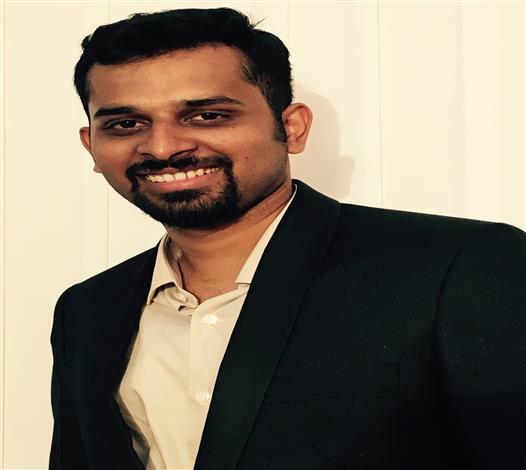
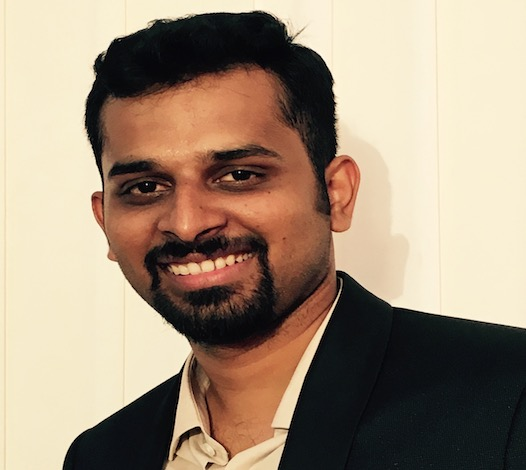
Updated date and profile pic of speakers
Updated date and profile pic of speakers

diff --git a/index.html b/index.html
@@ -10,7 +10,7 @@
 	<!-- Favicon -->
 	<link rel="shortcut icon" type="image/icon" href="assets/images/favicon.ico" />
 	<!-- Font Awesome -->
-	<link href="https://maxcdn.bootstrapcdn.com/font-awesome/4.6.3/css/font-awesome.min.css" rel="stylesheet">
+	<link href="assets/css/font-awesome.min.css" rel="stylesheet">
 	<!-- Bootstrap -->
 	<link href="assets/css/bootstrap.min.css" rel="stylesheet">
 	<!-- Slick slider -->
@@ -70,7 +70,7 @@
 						<li><a href="#mu-speakers">Speakers</a></li>
 						<li><a href="#mu-venue">Venue</a></li>
 						<li><a href="#mu-register">Register</a></li>
-						<li><a href="#mu-sponsors">Sponsors</a></li>
+						<!-- <li><a href="#mu-sponsors">Sponsors</a></li> -->
 						<!-- <li><a href="#mu-contact">Contact</a></li> -->
 					</ul>
 				</div>
@@ -99,14 +99,11 @@
 
 							<h1>WELCOME TO .NET Conf Local - Bengaluru</h1>
 							<h2>Learn. Imagine. Build.</h2>
-							<p class="mu-event-date-line">28 October, 2017. Bengaluru, India</p>
-
+							<p class="mu-event-date-line">18 November, 2017. Bengaluru, India</p>
 							<div class="mu-event-counter-area">
 								<div id="mu-event-counter">
-
 								</div>
 							</div>
-
 						</div>
 					</div>
 					<!-- End hero featured area -->
@@ -137,11 +134,9 @@
 										and greatest of Microsoft Technologies directly from Microsoft folks, Microsoft MVPs, Industry experts and Community
 										rockstars.
 									</p>
-
 								</div>
 							</div>
 							<!-- End Feature Content -->
-
 						</div>
 					</div>
 				</div>
@@ -163,7 +158,7 @@
 							<div class="mu-schedule-content-area">
 								<!-- Nav tabs -->
 								<ul class="nav nav-tabs mu-schedule-menu" role="tablist">
-									<li role="presentation" class="active"><a href="#first-day" aria-controls="first-day" role="tab" data-toggle="tab">28 Oct</a></li>
+									<li role="presentation" class="active"><a href="#first-day" aria-controls="first-day" role="tab" data-toggle="tab">18 Nov</a></li>
 									<!-- <li role="presentation"><a href="#second-day" aria-controls="second-day" role="tab" data-toggle="tab">2 Day / 20 Feb</a></li>
 								    <li role="presentation"><a href="#third-day" aria-controls="third-day" role="tab" data-toggle="tab">3 Day / 21 Feb</a></li> -->
 
@@ -189,7 +184,7 @@
 											</li>
 											<li>
 												<div class="mu-single-event">
-													<img src="assets/images/swami.jpg" alt="event speaker">
+													<img src="assets/images/Swami.jpg" alt="event speaker">
 													<p class="mu-event-time">10.30 AM</p>
 													<h3>.Net Standard 2.0</h3>
 													<span>By Swaminathan Vetri</span>
@@ -220,7 +215,7 @@
 											</li>
 											<li>
 												<div class="mu-single-event">
-													<img src="assets/images/speaker-3.jpg" alt="event speaker">
+													<img src="assets/images/anand-gothe.jpg" alt="event speaker">
 													<p class="mu-event-time">01.30 PM</p>
 													<h3>Go Serverless with Azure Functions and C#</h3>
 													<span>By Anand Gothe</span>
@@ -228,7 +223,7 @@
 											</li>
 											<li>
 												<div class="mu-single-event">
-													<img src="assets/images/speaker-3.jpg" alt="event speaker">
+													<img src="assets/images/vic-parmar-profile.jpg" alt="event speaker">
 													<p class="mu-event-time">02.30 PM</p>
 													<h3>What's New in ASP.NET Core 2.0</h3>
 													<span>By Vic Parmar</span>
@@ -289,25 +284,25 @@
 										<img src="assets/images/NishAnil.jpeg" alt="speaker img">
 										<div class="mu-single-speakers-info">
 											<h3>Nish Anil</h3>
-											<p>Sr. Program Manager, Xamarin - Microsoft</p>
+											<p>Sr. Program Manager, Microsoft</p>
 											<ul class="mu-single-speakers-social">
-												<li><a href="#"><i class="fa fa-facebook"></i></a></li>
-												<li><a href="#"><i class="fa fa-twitter"></i></a></li>
-												<li><a href="#"><i class="fa fa-linkedin"></i></a></li>
+												<!-- <li><a href="#"><i class="fa fa-facebook"></i></a></li> -->
+												<li><a href="https://twitter.com/nishanil" target="_blank"><i class="fa fa-twitter"></i></a></li>
+												<li><a href="https://www.linkedin.com/in/nanil/ " target="_blank"><i class="fa fa-linkedin"></i></a></li>
 											</ul>
 										</div>
 									</div>
 									<!-- End single speaker -->
 									<!-- Start single speaker -->
 									<div class="mu-single-speakers">
-										<img src="assets/images/swami.jpg" alt="speaker img">
+										<img src="assets/images/Swami.jpg" alt="speaker img">
 										<div class="mu-single-speakers-info">
 											<h3>Swaminathan Vetri</h3>
 											<p>Microsoft MVP</p>
 											<ul class="mu-single-speakers-social">
-												<li><a href="#"><i class="fa fa-facebook"></i></a></li>
-												<li><a href="#"><i class="fa fa-twitter"></i></a></li>
-												<li><a href="#"><i class="fa fa-linkedin"></i></a></li>
+												<!-- <li><a href="#"><i class="fa fa-facebook"></i></a></li> -->
+												<li><a href="https://twitter.com/svswaminathan" target="_blank"><i class="fa fa-twitter"></i></a></li>
+												<li><a href="https://www.linkedin.com/in/swaminathanvetri/" target="_blank"><i class="fa fa-linkedin"></i></a></li>
 											</ul>
 										</div>
 									</div>
@@ -315,14 +310,14 @@
 
 									<!-- Start single speaker -->
 									<div class="mu-single-speakers">
-										<img src="assets/images/speaker-3.jpg" alt="speaker img">
+										<img src="assets/images/vic-parmar-profile.jpg" alt="speaker img">
 										<div class="mu-single-speakers-info">
 											<h3>Vic Parmar</h3>
 											<p>Director IT, AaNeel Technologies</p>
 											<ul class="mu-single-speakers-social">
-												<li><a href="#"><i class="fa fa-facebook"></i></a></li>
-												<li><a href="#"><i class="fa fa-twitter"></i></a></li>
-												<li><a href="#"><i class="fa fa-linkedin"></i></a></li>
+												<!-- <li><a href="#"><i class="fa fa-facebook"></i></a></li> -->
+												<li><a href="https://twitter.com/vicparmar" target="_blank"><i class="fa fa-twitter"></i></a></li>
+												<li><a href="https://www.linkedin.com/in/vicparmar/" target="_blank"><i class="fa fa-linkedin"></i></a></li>
 											</ul>
 										</div>
 									</div>
@@ -330,21 +325,21 @@
 
 									<!-- Start single speaker -->
 									<div class="mu-single-speakers">
-										<img src="assets/images/speaker-4.jpg" alt="speaker img">
+										<img src="assets/images/anand-gothe.jpg" alt="speaker img">
 										<div class="mu-single-speakers-info">
 											<h3>Anand Gothe</h3>
 											<p>Software Architect, Prowareness</p>
 											<ul class="mu-single-speakers-social">
-												<li><a href="#"><i class="fa fa-facebook"></i></a></li>
-												<li><a href="#"><i class="fa fa-twitter"></i></a></li>
-												<li><a href="#"><i class="fa fa-linkedin"></i></a></li>
+												<!-- <li><a href="#"><i class="fa fa-facebook"></i></a></li> -->
+												<li><a href="https://twitter.com/anandgothe" target="_blank"><i class="fa fa-twitter"></i></a></li>
+												<li><a href="https://www.linkedin.com/in/anandgothe/" target="_blank"><i class="fa fa-linkedin"></i></a></li>
 											</ul>
 										</div>
 									</div>
 									<!-- End single speaker -->
 
 									<!-- Start single speaker -->
-									<div class="mu-single-speakers">
+									<!-- <div class="mu-single-speakers">
 										<img src="assets/images/speaker-1.jpg" alt="speaker img">
 										<div class="mu-single-speakers-info">
 											<h3>Awesome Speaker</h3>
@@ -355,11 +350,11 @@
 												<li><a href="#"><i class="fa fa-linkedin"></i></a></li>
 											</ul>
 										</div>
-									</div>
+									</div> -->
 									<!-- End single speaker -->
 
 									<!-- Start single speaker -->
-									<div class="mu-single-speakers">
+									<!-- <div class="mu-single-speakers">
 										<img src="assets/images/speaker-1.jpg" alt="speaker img">
 										<div class="mu-single-speakers-info">
 											<h3>Awesome Speaker</h3>
@@ -370,7 +365,7 @@
 												<li><a href="#"><i class="fa fa-linkedin"></i></a></li>
 											</ul>
 										</div>
-									</div>
+									</div> -->
 									<!-- End single speaker -->
 								</div>
 							</div>
@@ -390,7 +385,7 @@
 
 					<div class="col-md-6">
 						<div class="mu-venue-map">
-							<iframe src="https://www.google.com/maps/embed?pb=!1m18!1m12!1m3!1d3888.327047924566!2d77.64233321428362!3d12.950912190869438!2m3!1f0!2f0!3f0!3m2!1i1024!2i768!4f13.1!3m3!1m2!1s0x3bae140db91061b7%3A0x5ed48cb6fa4ef6ea!2sMicrosoft+GTSC!5e0!3m2!1sen!2sin!4v1506922655578"
+							 <iframe src="https://www.google.com/maps/embed?pb=!1m14!1m8!1m3!1d3888.6207100822758!2d77.69042!3d12.932082!3m2!1i1024!2i768!4f13.1!3m3!1m2!1s0x0000000000000000%3A0xfb37c5aa09736265!2sProwareness!5e0!3m2!1sen!2sin!4v1509512520794" 
 							 width="100%" height="450" frameborder="0" style="border:0" allowfullscreen></iframe>
 						</div>
 					</div>
@@ -398,8 +393,11 @@
 					<div class="col-md-6">
 						<div class="mu-venue-address">
 							<h2>VENUE <i class="fa fa-chevron-right" aria-hidden="true"></i></h2>
-							<h3>Hamilton Hall, 4th Floor <br> Microsoft Signature Building</h3>
-							<h4>Embassy Golf Links Business Park, Domlur, Bengaluru, Karnataka 560071</h4>
+							<h3>Prowareness Software Services Pvt. Ltd., 
+								<br> Lower Ground Floor 
+								<br> Building 2A-West Tower
+							</h3>
+							<h4>Embassy TechVillage, Outer Ring Road, Deverabeesanahalli,Bangalore – 560087</h4>
 						</div>
 					</div>
 
@@ -438,8 +436,8 @@
 						<div class="mu-sponsors-area">
 
 							<div class="mu-title-area">
-								<h2 class="mu-title">Our Sponsors</h2>
-								<p>Thanks a ton for our sponsors for the awesome food and goodies!!!</p>
+								<h2 class="mu-title">Organizers</h2>
+								<!-- <p>Thanks a ton for our sponsors for the awesome food and goodies!!!</p> -->
 							</div>
 
 							<!-- Start spnonsors brand logo -->
@@ -451,12 +449,12 @@
 										</div>
 									</div>
 									<div class="row">
-										<div class="mu-social-media">
-											<a href="#"><i class="fa fa-facebook"></i></a>
-											<a href="#"><i class="fa fa-twitter"></i></a>
+										<div class="mu-social-media" style="margin-left:70px">
+											<a href="https://www.facebook.com/groups/BDotNet/" target="_blank"><i class="fa fa-facebook"></i></a>
+											<a href="https://www.meetup.com/BDotNetUG/" target="_blank"><i class="fa fa-meetup"></i></a>
 											<!-- <a href="#"><i class="fa fa-google-plus"></i></a> -->
 											<!-- <a href="#"><i class="fa fa-linkedin"></i></a> -->
-											<a href="#"><i class="fa fa-youtube"></i></a>
+											<a href="https://www.youtube.com/user/BdotnetTV" target="_blank"><i class="fa fa-youtube"></i></a>
 										</div>
 									</div>
 								</div>
@@ -467,12 +465,12 @@
 										</div>
 									</div>
 									<div class="row">
-										<div class="mu-social-media">
-											<a href="#"><i class="fa fa-facebook"></i></a>
-											<a href="#"><i class="fa fa-twitter"></i></a>
+										<div class="mu-social-media" style="margin-left:70px">
+											<a href="https://www.facebook.com/groups/dotnetbangalore/" target="_blank"><i class="fa fa-facebook"></i></a>
+											<a href="https://www.meetup.com/DotNetBLR/" target="_blank"><i class="fa fa-meetup"></i></a>
 											<!-- <a href="#"><i class="fa fa-google-plus"></i></a> -->
 											<!-- <a href="#"><i class="fa fa-linkedin"></i></a> -->
-											<a href="#"><i class="fa fa-youtube"></i></a>
+											<!-- <a href="#"><i class="fa fa-youtube"></i></a> -->
 										</div>
 									</div>
 								</div>

diff --git a/assets/js/custom.js b/assets/js/custom.js
@@ -42,7 +42,7 @@
 	/*  2. EVENT TIME COUNTER
 	/* ----------------------------------------------------------- */
 	
-	$('#mu-event-counter').countdown('2017/10/28').on('update.countdown', function(event) {
+	$('#mu-event-counter').countdown('2017/11/18').on('update.countdown', function(event) {
 	  var $this = $(this).html(event.strftime(''
 	    + '<span class="mu-event-counter-block"><span>%D</span> Days</span> '
 	    + '<span class="mu-event-counter-block"><span>%H</span> Hours</span> '
